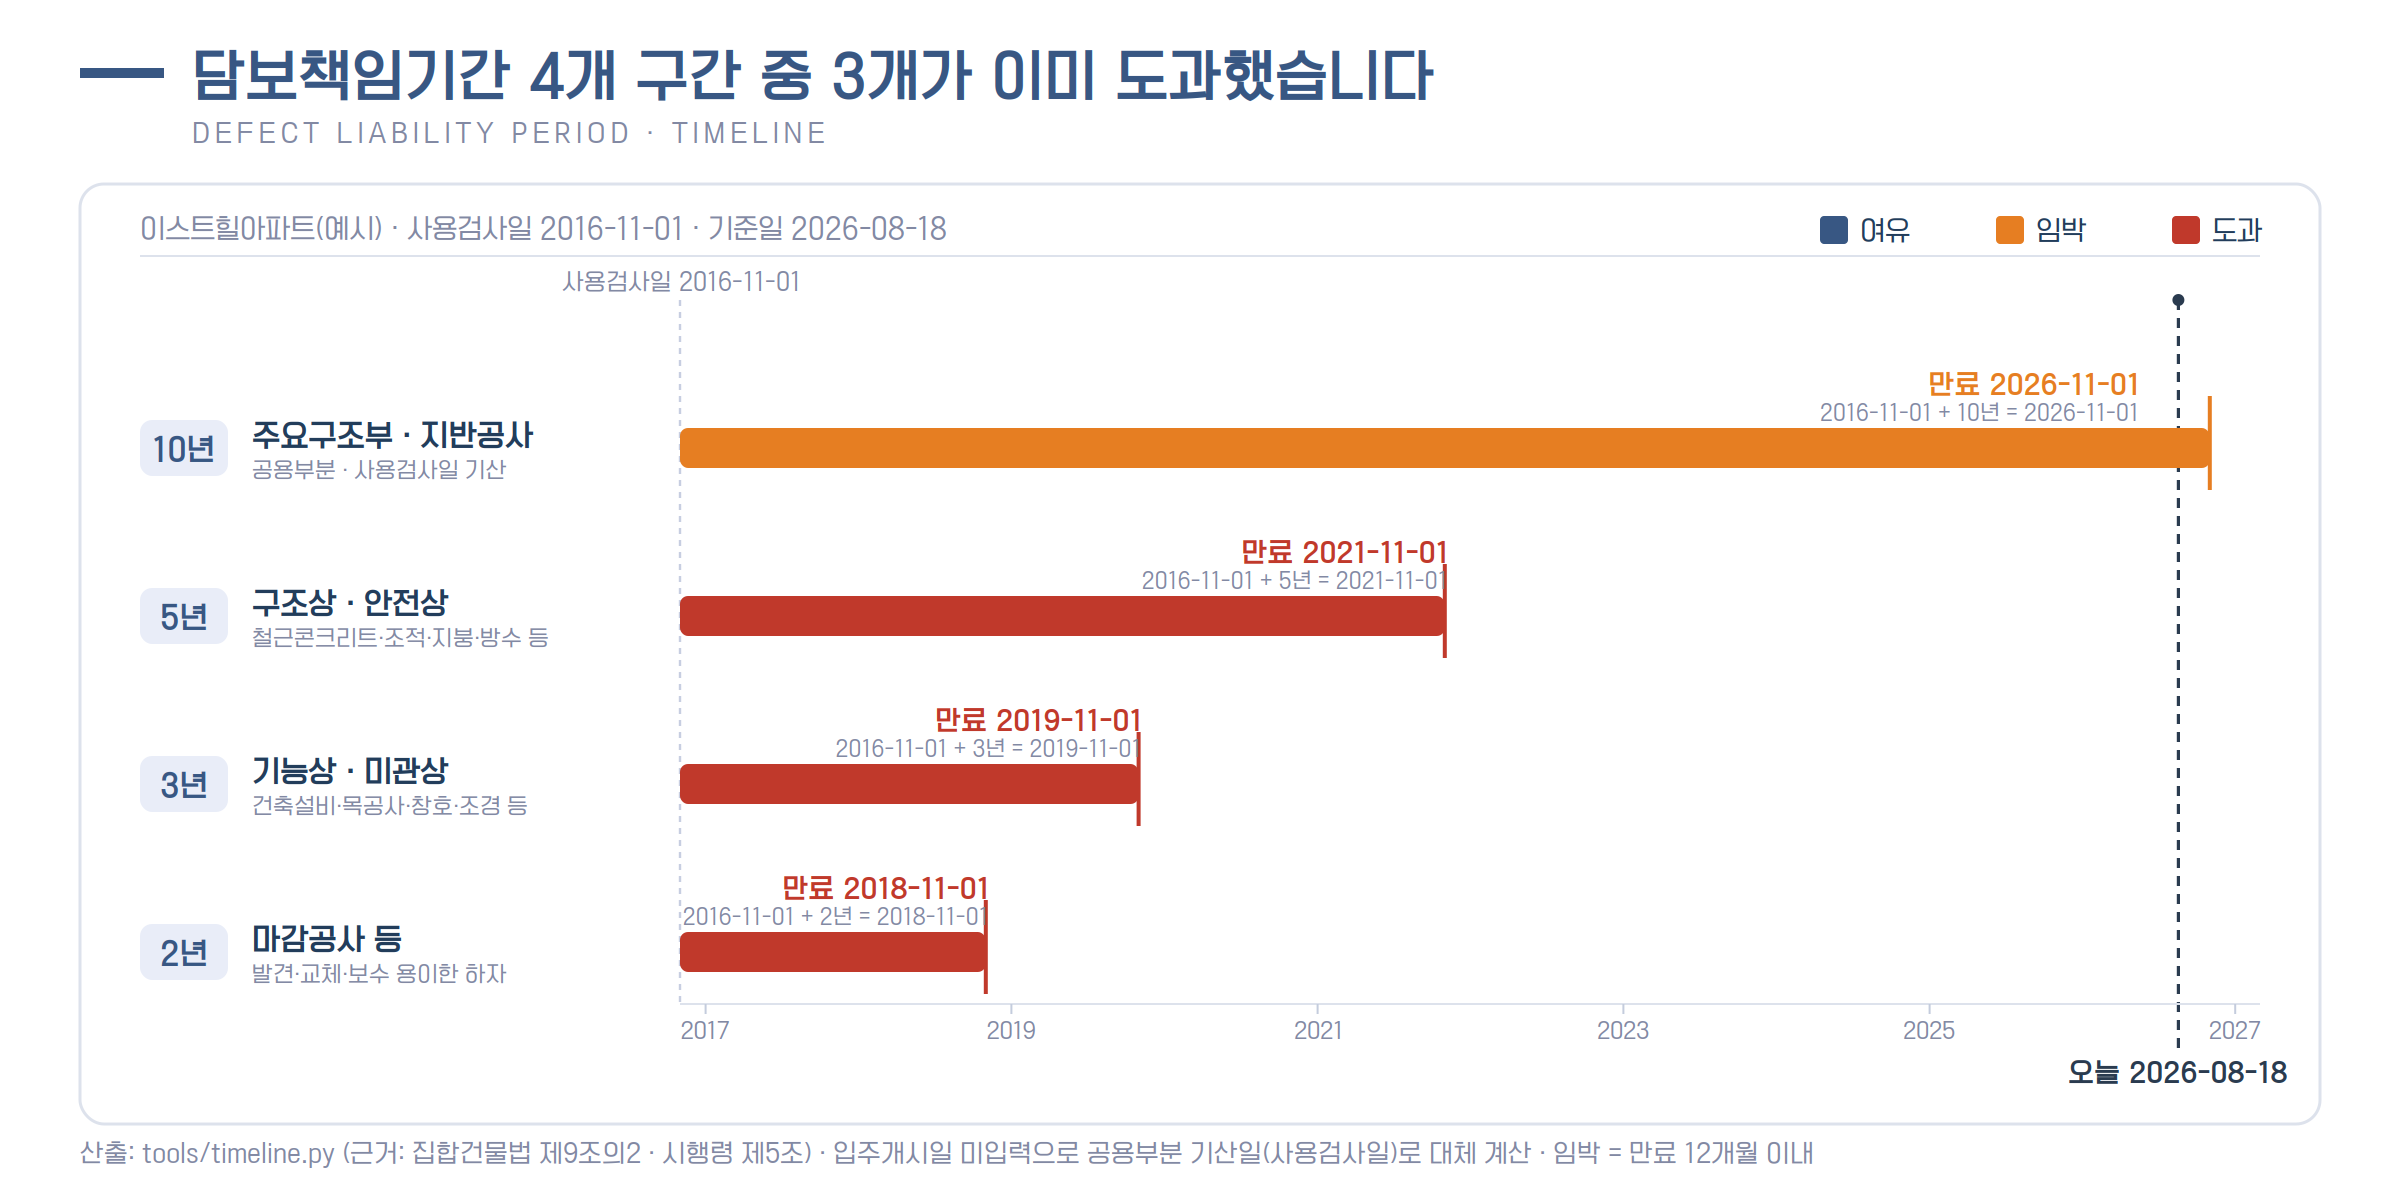
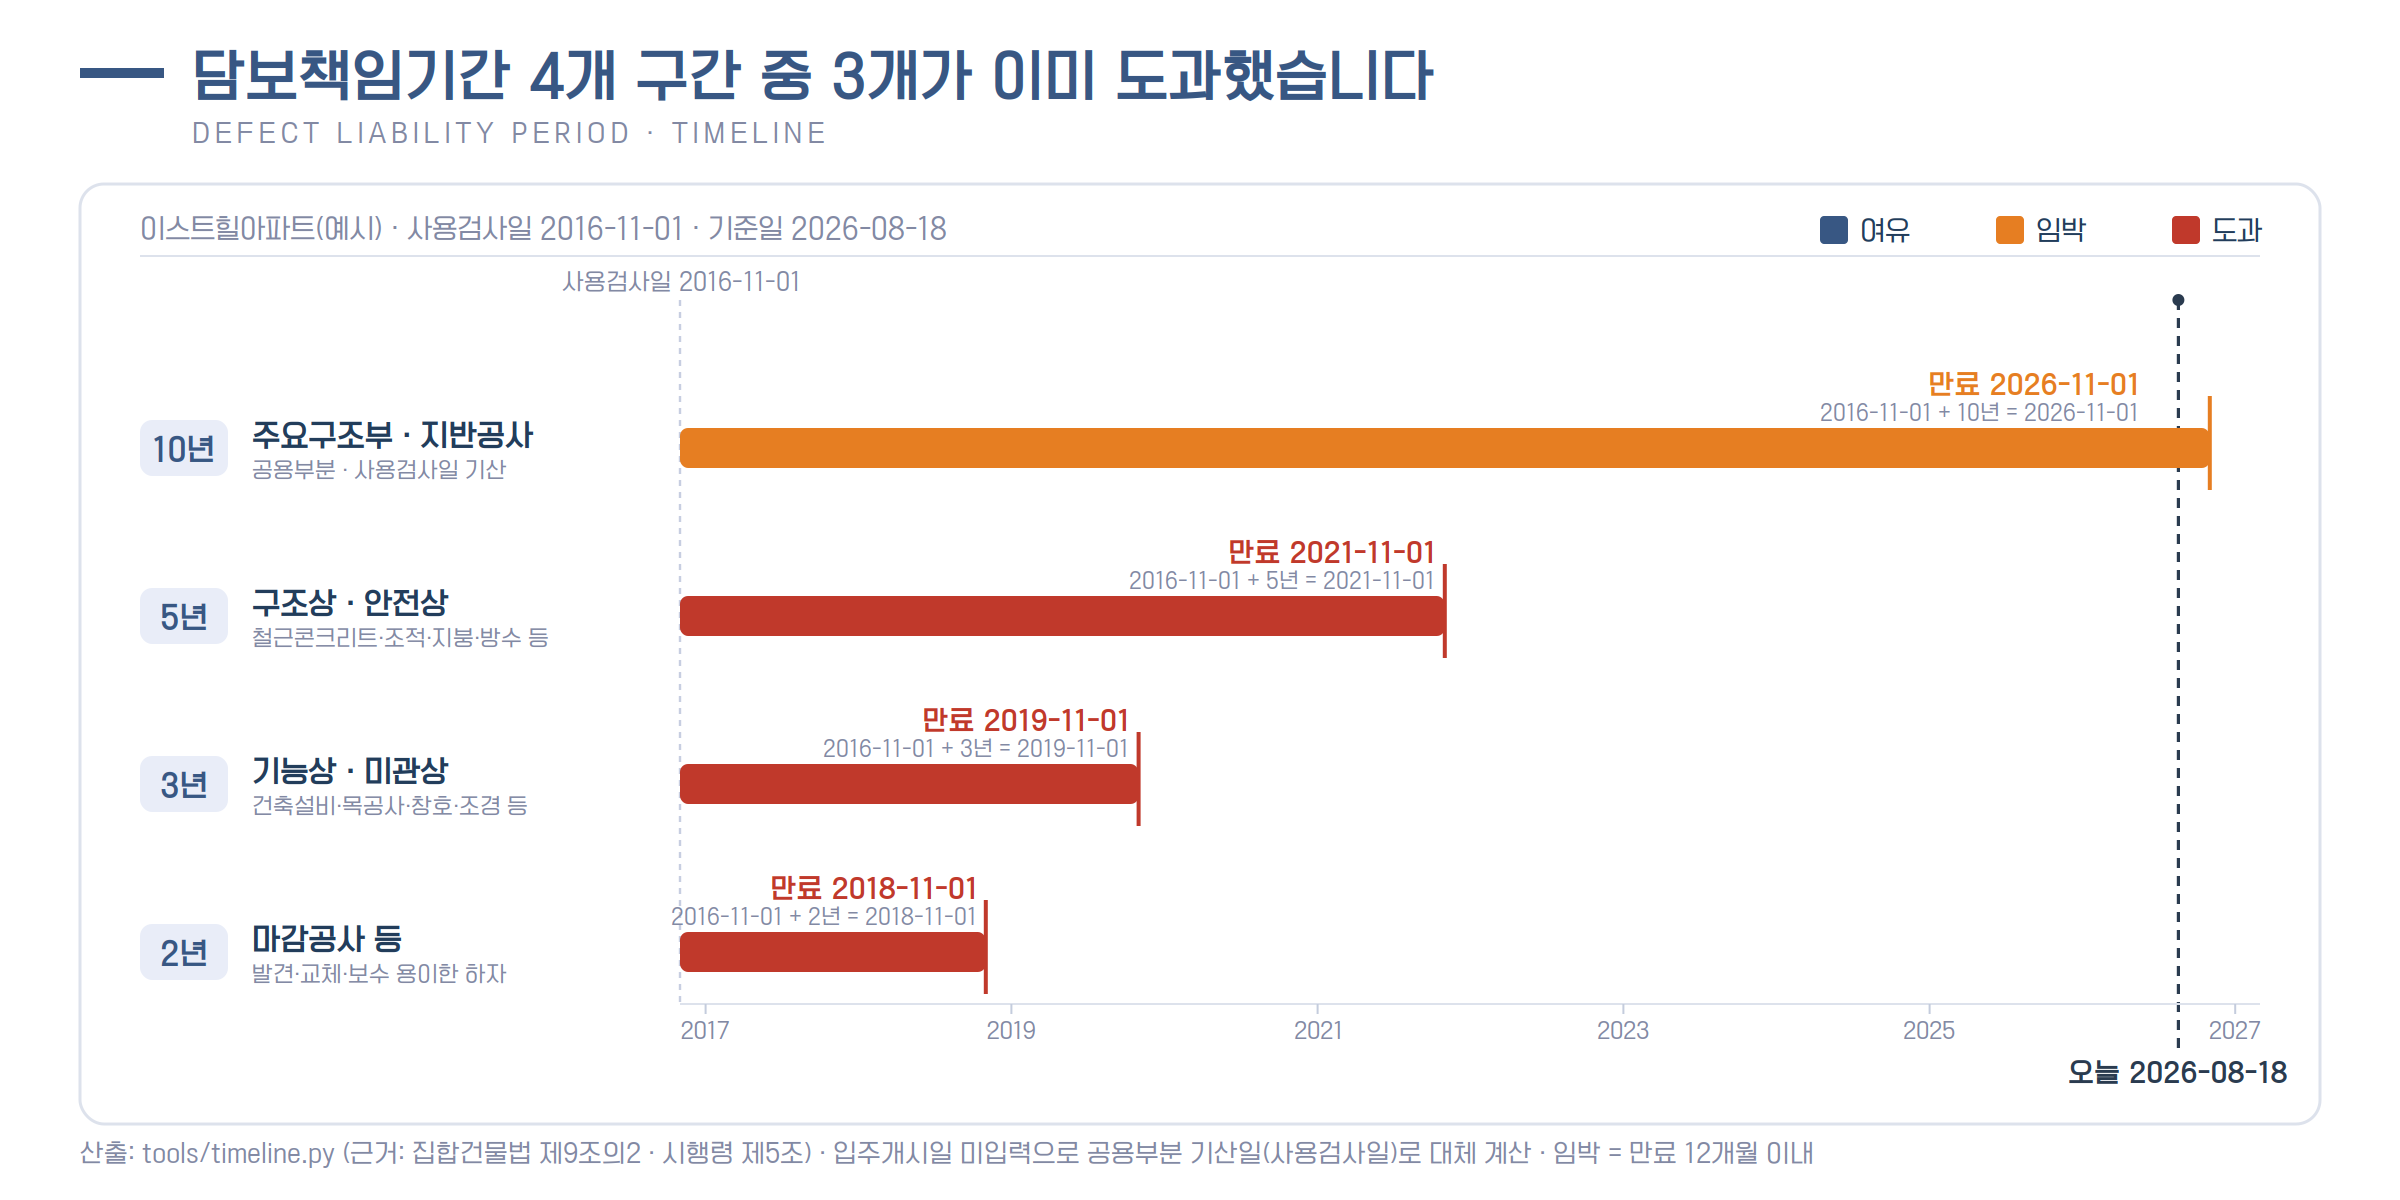
S05 라벨 위치 미세조정, README 갱신
Claude-Session: https://claude.ai/code/session_01McKVzc7RRv66NSkAtofwT1

Changed region(s): [[0.4688, 0.4317, 0.625, 0.4933], [0.3438, 0.5858, 0.4688, 0.6475], [0.2812, 0.7092, 0.4062, 0.7708]]

diff --git a/graphics/README.md b/graphics/README.md
@@ -34,8 +34,8 @@ cp assets/fonts/*.ttf /usr/share/fonts/truetype/jl/ && fc-cache -f
 | `s15_타일_뒤채움_단면모식도` | S15 | **완성** |
 | `s17_방화문_성능시험_절차도` | S17 | **완성** |
 | `s24_비용흐름_다이어그램` | S24 (비용) | **완성** |
+| `s11_채권양도_구조도` | S11 | **완성** |
 | 담보책임기간 타임라인 ① | S5 | 예정 (`tools/timeline.py` 출력을 도해화) |
-| 채권양도 구조 ② | S11 | 예정 |
 | 소송 절차 11단계 ③ | S18 | 예정 |
 
 ## 규칙
